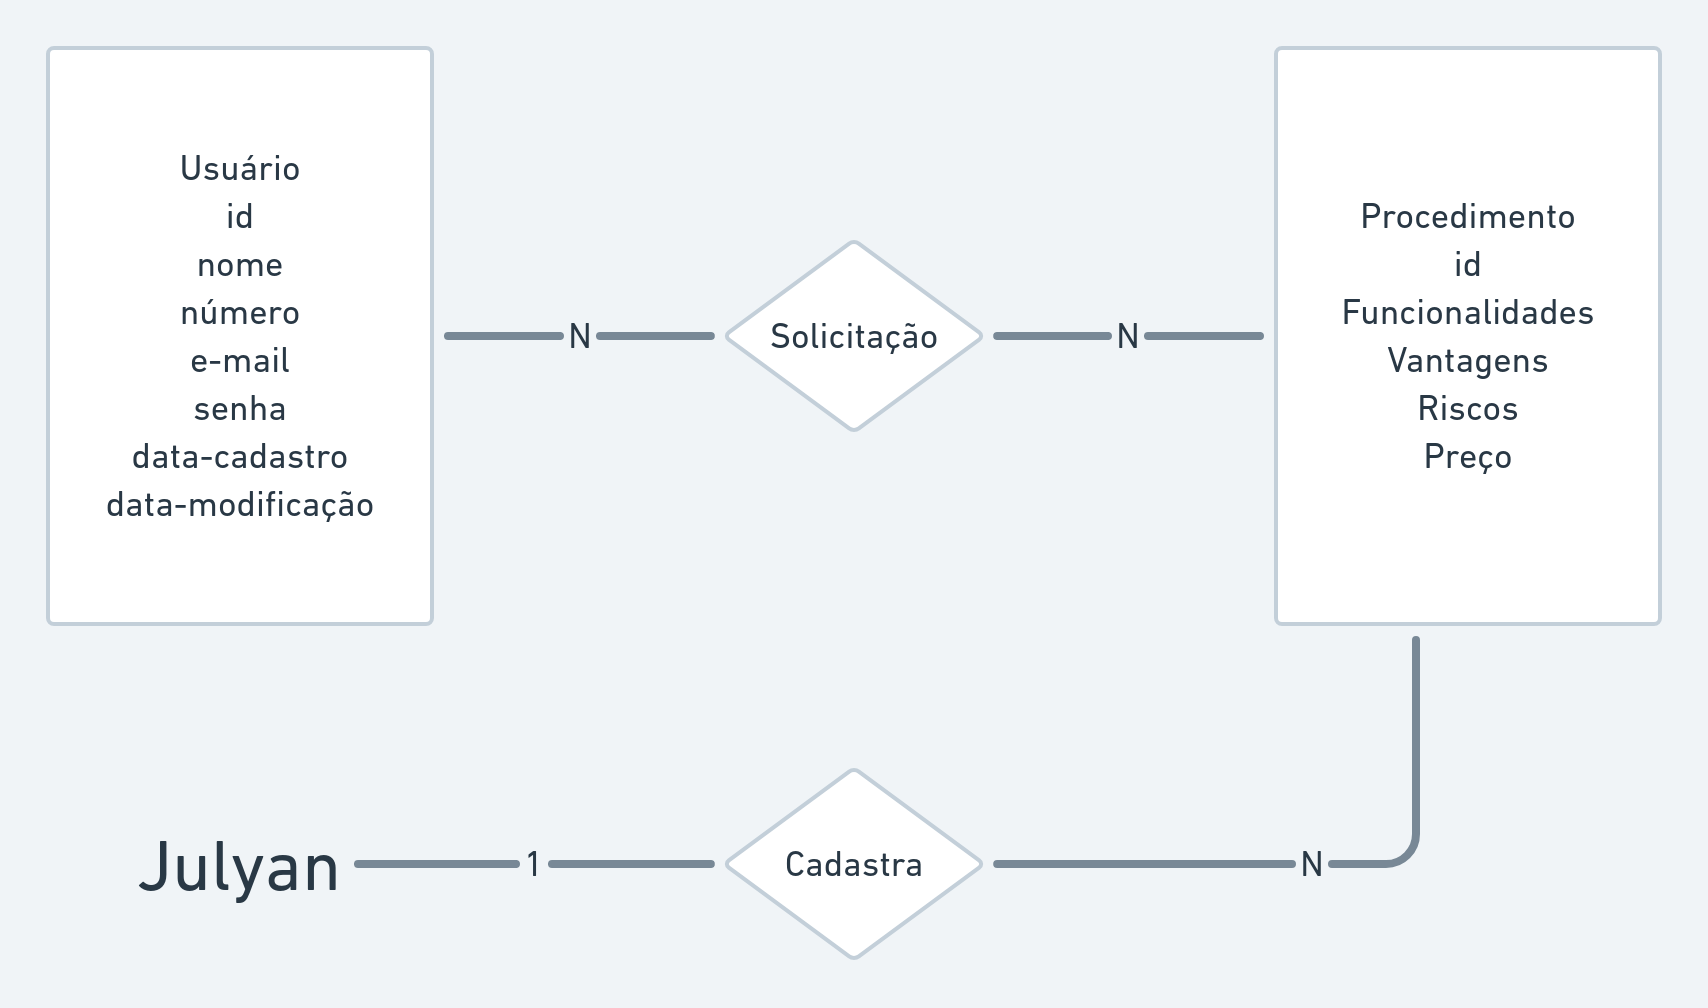
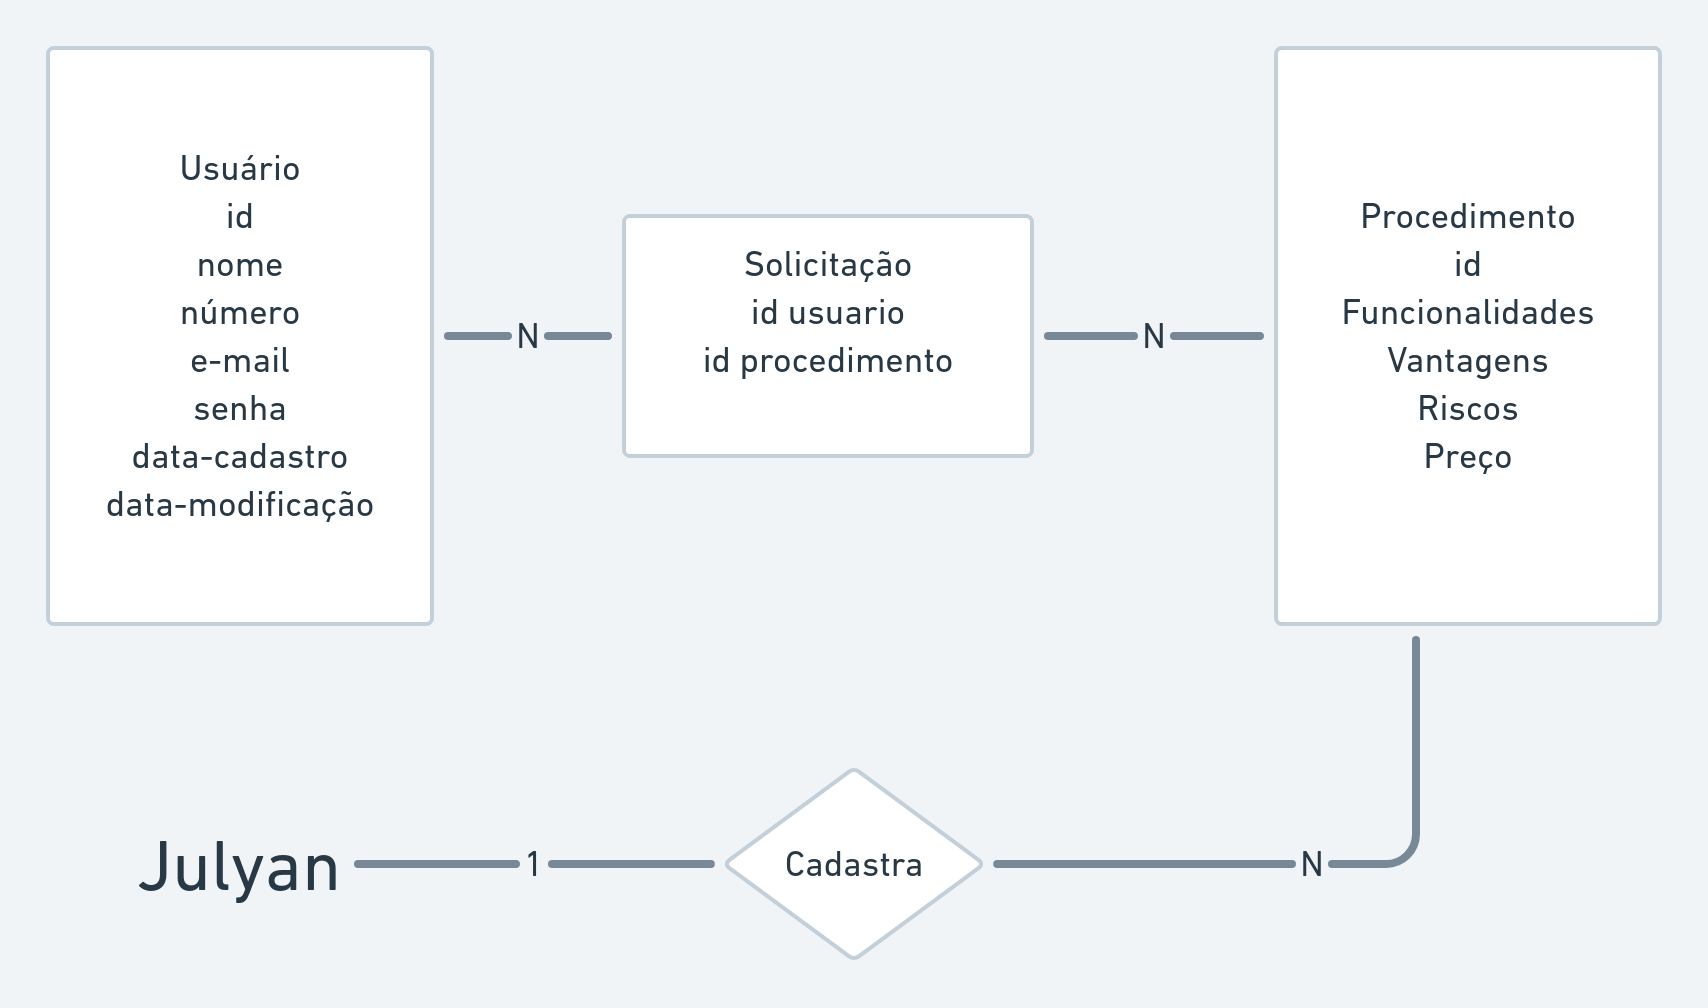
atualização modelagem de dados

Changed region(s): [[0.2793, 0.246, 0.6206, 0.3998], [0.3724, 0.3998, 0.6206, 0.4613], [0.6516, 0.3075, 0.6827, 0.3383]]

diff --git a/web/src/pages.js b/web/src/pages.js
@@ -1,7 +1,10 @@
+const procedimentos = require('./database/fakedataproc')
+const solicitacoes = require('./database/fakedatasolic')
+
 module.exports = {
 
   index(req, res){
-    return res.render('index')
+    return res.render('index', { procedimentos })
   },
 
   julyanCadastros(req, res){
@@ -9,11 +12,11 @@ module.exports = {
   },
 
   julyanSolicitacoes(req, res){
-    return res.render('julyanSolicitacoes')
+    return res.render('julyanSolicitacoes', { solicitacoes })
   },
 
   logedScreen(req, res){
-    return res.render('logedScreen')
+    return res.render('logedScreen', { procedimentos })
   },
 
   singIn(req, res){

diff --git a/web/public/styles/julyan.css b/web/public/styles/julyan.css
@@ -13,17 +13,26 @@
 
 #main{
   text-align: center;
+  height: 100%;
+  position: fixed;
+}
+
+#main #soli{
+  margin-left: 175%;
+}
+
+#main #cadastrar{
+  margin-left: 125%;
 }
 
 #main .solicitacoes{
-
   height: 20px;
   width: 300px;
   border: solid;
   overflow: hidden;
   transition: 0.7ms;
   margin-bottom: 35px;
-  margin-left: 39%;
+  margin-left: 164%;
 }
 
 #main .solicitacoes:hover{

diff --git a/web/public/styles/julyanBody.css b/web/public/styles/julyanBody.css
@@ -3,7 +3,7 @@ body {
 
   margin: 0;
   background: #1c1c1c;
-  height: max-content;
+  height: 100%;
 
   color: #00FF00;
   font-family: 'JetBrains Mono', monospace;

diff --git a/web/public/styles/cadastrarProcedimento.css b/web/public/styles/cadastrarProcedimento.css
@@ -1,6 +1,7 @@
 form{
   text-align: center;
   margin-top: 5%;
+  margin-left: 122%;
 }
 
 .input{
